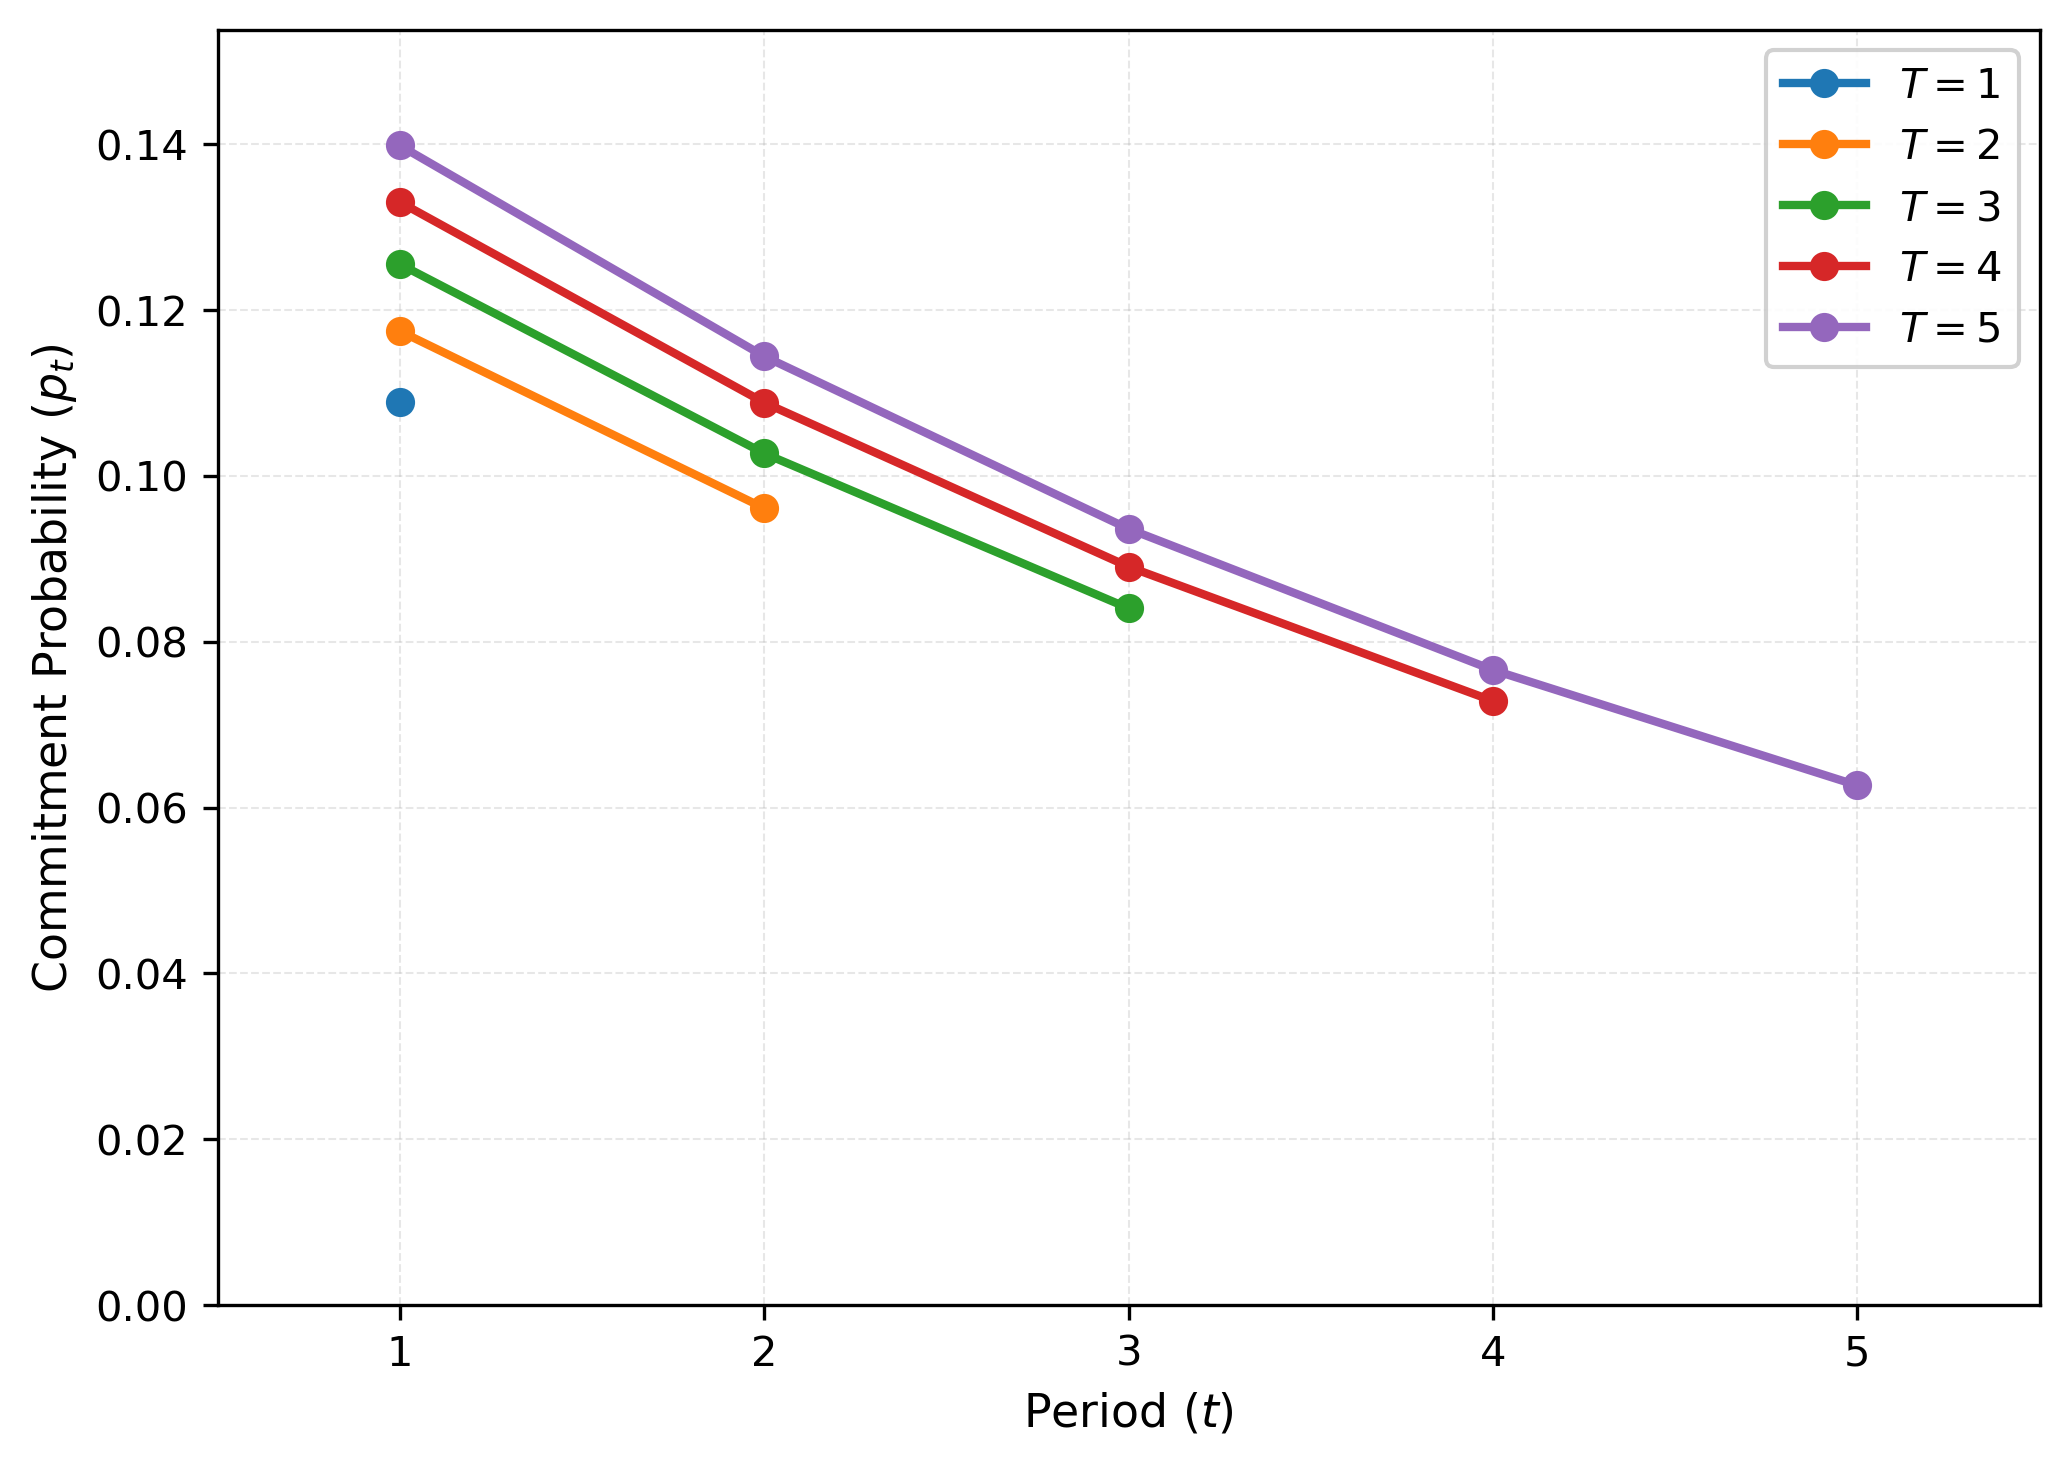
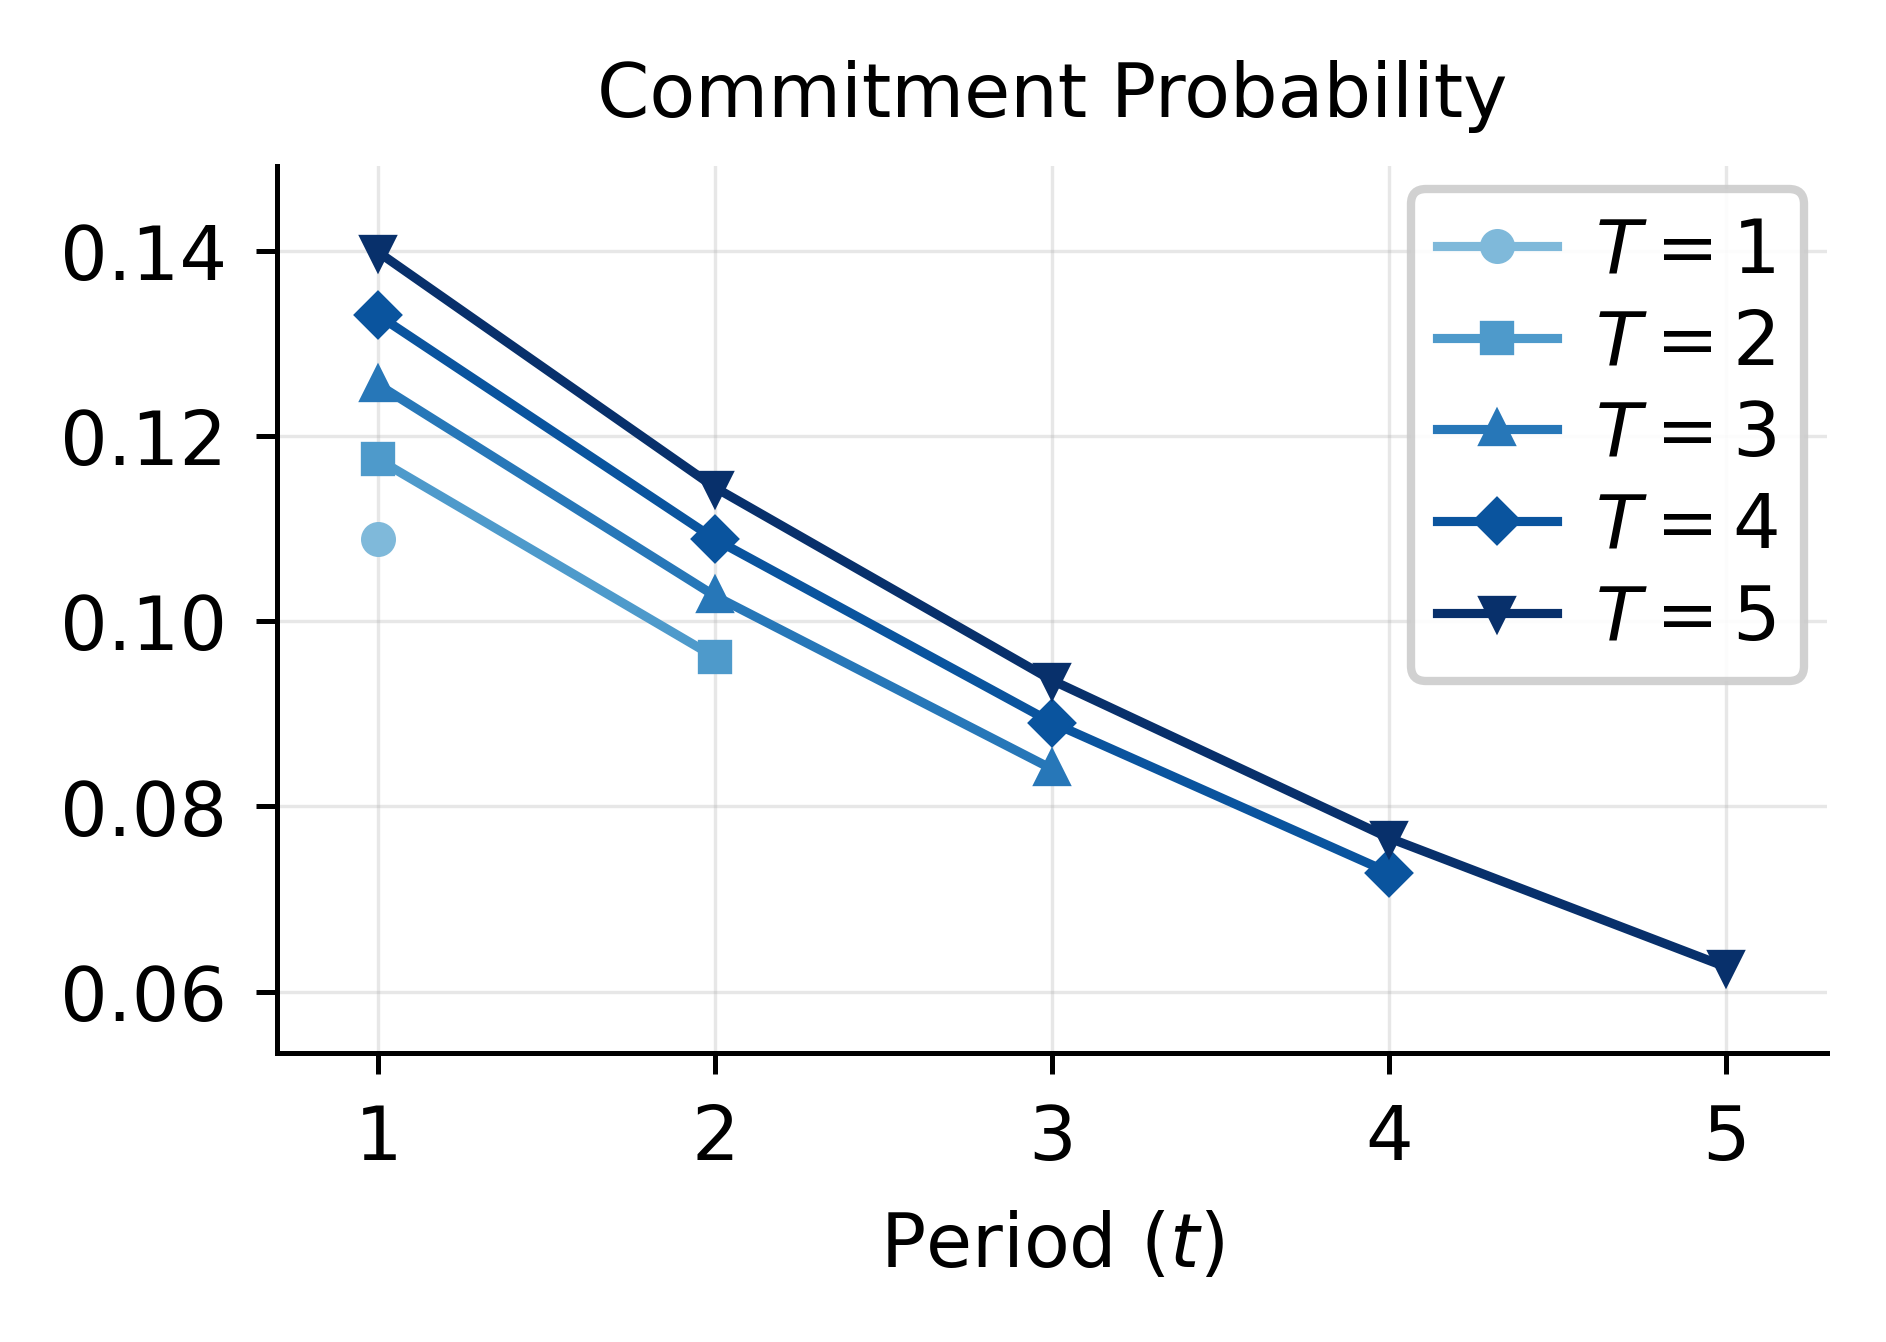
Reformatted Figure 2

diff --git a/src/generate_graph.py b/src/generate_graph.py
@@ -2,17 +2,44 @@
 Generate graph for paper.
 """
 from pathlib import Path
+import matplotlib
 import matplotlib.pyplot as plt
 import plotly.graph_objects as go
 from num_example import (
-    normalize_game, 
+    normalize_game,
     calculate_commitment_probabilities,
     calculate_crashing_probability,
     calculate_expected_payoff
 )
 
+# AAAI rejects Type 3 fonts even inside figures; matplotlib's PDF default is 3.
+matplotlib.rcParams['pdf.fonttype'] = 42
+
 # Default T values to plot
 T_values = [1, 2, 3, 4, 5]
+
+# Figures are drawn at final print size so LaTeX does not scale them down: a
+# scaled figure shrinks its text by the same factor, and AAAI requires in-figure
+# text to be at least 9 pt. This is slightly under the 3.325 in column so that
+# \includegraphics[width=\linewidth] scales up by ~7%, leaving the 9 pt labels
+# above the floor rather than exactly on it.
+FIGURE_WIDTH_IN = 3.0
+MARKERS = ['o', 's', '^', 'D', 'v']
+
+# T is an ordered quantity, so the series take a single-hue light-to-dark ramp
+# rather than a categorical cycle: it encodes the ordering, and its monotone
+# lightness survives greyscale printing. The matplotlib default cycle does not --
+# its orange and green are dE 0.7 apart under protanopia, i.e. indistinguishable.
+SERIES_RAMP = plt.cm.Blues
+SERIES_RAMP_RANGE = (0.45, 1.0)
+
+
+def series_colors(n):
+    """Sample the sequential ramp into n evenly spaced, light-to-dark colors."""
+    low, high = SERIES_RAMP_RANGE
+    if n == 1:
+        return [SERIES_RAMP(high)]
+    return [SERIES_RAMP(low + (high - low) * i / (n - 1)) for i in range(n)]
 
 def create_probabilities_across_T_graph(A, B, C, D, T_values):
     """
@@ -33,39 +60,52 @@ def create_probabilities_across_T_graph(A, B, C, D, T_values):
     for T in T_values:
         commitment_probabilities[f'T={T}'] = calculate_commitment_probabilities(T, b, c)[:-1]
     
-    # Create the plot with styling to match LaTeX paper
-    plt.figure(figsize=(7, 5))
-    
-    # Plot each series
-    for T_label, probs in commitment_probabilities.items():
+    fig, ax = plt.subplots(figsize=(FIGURE_WIDTH_IN, 2.1))
+
+    # Each series is also given its own marker, so the curves stay distinguishable
+    # even where the ramp's adjacent steps are close.
+    colors = series_colors(len(commitment_probabilities))
+    for i, (T_label, probs) in enumerate(commitment_probabilities.items()):
         T = int(T_label.split('=')[1])
-        x_values = list(range(1, T + 1))
-        y_values = probs
-        plt.plot(x_values, y_values, marker='o', label=f'$T={T}$', linewidth=2, markersize=6)
-    
-    # Styling to match LaTeX document
-    plt.xlabel('Period ($t$)', fontsize=11)
-    plt.ylabel('Commitment Probability ($p_t$)', fontsize=11)
-    plt.legend(fontsize=10, framealpha=0.9)
-    plt.grid(True, alpha=0.3, linestyle='--', linewidth=0.5)
-    plt.xlim(0.5, max(T_values) + 0.5)
-    plt.ylim(0, max([max(probs) for probs in commitment_probabilities.values()]) * 1.1)
-    plt.xticks(range(1, max(T_values) + 1), fontsize=10)
-    plt.yticks(fontsize=10)
-    
-    # Tight layout for better spacing
-    plt.tight_layout()
-    
+        ax.plot(range(1, T + 1), probs, marker=MARKERS[i % len(MARKERS)],
+                color=colors[i], label=f'$T={T}$', linewidth=1.1, markersize=3.2)
+
+    # The measure is named in a left-aligned headline rather than a rotated y-axis
+    # label, which reads more easily and frees the width for the plot itself.
+    ax.set_title('Commitment Probability', loc='center', fontsize=9, pad=6)
+    ax.set_xlabel('Period ($t$)', fontsize=9)
+    ax.tick_params(labelsize=9, length=2.5, width=0.6)
+    ax.set_xticks(range(1, max(T_values) + 1))
+
+    lowest = min(min(probs) for probs in commitment_probabilities.values())
+    highest = max(max(probs) for probs in commitment_probabilities.values())
+    padding = 0.12 * (highest - lowest)
+    ax.set_ylim(lowest - padding, highest + padding)
+    ax.set_xlim(0.7, max(T_values) + 0.3)
+
+    ax.grid(True, alpha=0.3, linewidth=0.4)
+    for side in ('top', 'right'):
+        ax.spines[side].set_visible(False)
+    for side in ('left', 'bottom'):
+        ax.spines[side].set_linewidth(0.6)
+
+    ax.legend(fontsize=9, framealpha=0.9, loc='upper right',
+              handlelength=1.6, borderpad=0.35, labelspacing=0.25,
+              handletextpad=0.5, borderaxespad=0.3)
+
+    fig.tight_layout(pad=0.2)
+
     # Create the bld directory at the same level as Code
     bld_dir = Path(__file__).parent.parent / 'bld'
     bld_dir.mkdir(exist_ok=True)
-    
+
     # Save the plot
     output_path_pdf = bld_dir / 'commitment_probabilities.pdf'
     output_path_png = bld_dir / 'commitment_probabilities.png'
-    
-    plt.savefig(output_path_pdf, format='pdf', bbox_inches='tight', dpi=300)
-    plt.savefig(output_path_png, format='png', bbox_inches='tight', dpi=300)
+
+    fig.savefig(output_path_pdf, format='pdf', bbox_inches='tight')
+    fig.savefig(output_path_png, format='png', bbox_inches='tight', dpi=600)
+    plt.close(fig)
 
 
 def create_payoff_and_crash_graph(b_values, c, T_range):
